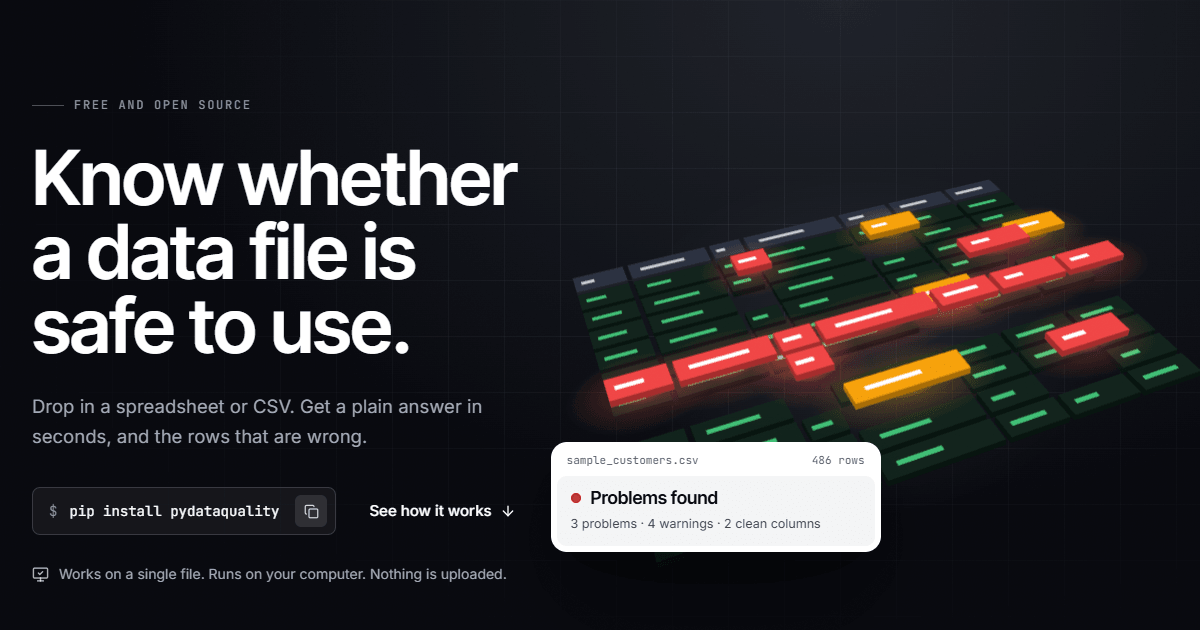
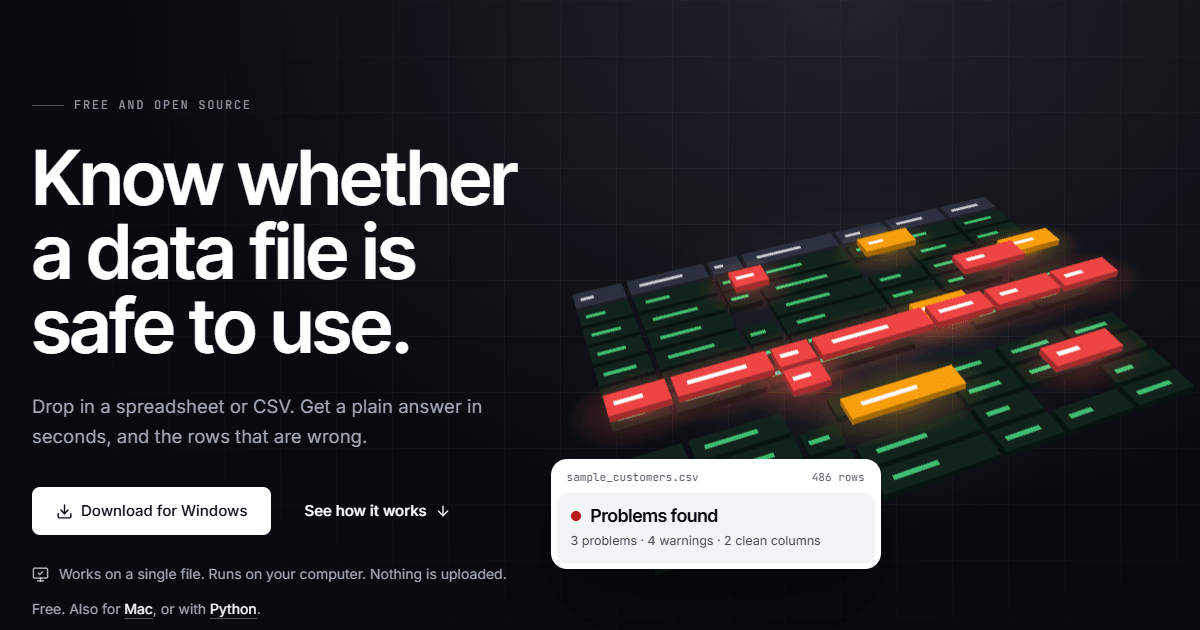
Website: add download buttons for the Windows and Mac apps
The 0.3.0 release carries a Windows setup program and a Mac app, so the site
no longer has to send people to a terminal.

- Hero, get-started section and closing panel lead with Download for Windows,
  with Mac beside it. The pip route stays for people who already use Python.
- Get started is now download, run it, drop a file in. It says plainly that
  Windows and macOS will ask for confirmation because the app is not signed.
- The links use releases/latest, so they follow future releases.
- Share image refreshed.

Changed region(s): [[0.4625, 0.2714, 0.9867, 0.9048], [0.0, 0.754, 0.4317, 0.8746], [0.0308, 0.9349, 0.2158, 0.9952]]

diff --git a/website/src/sections/Closing.tsx b/website/src/sections/Closing.tsx
@@ -1,6 +1,6 @@
-import { useRef, useState, type ReactNode } from "react";
+import { useRef, useState } from "react";
 import { AnimatePresence, motion, useInView } from "motion/react";
-import { ArrowRight, Check, Minus, Plus } from "lucide-react";
+import { Check, Download, Minus, Plus } from "lucide-react";
 import { BorderBeam } from "@/components/magicui/border-beam";
 import { CopyCommand, Heading, Reveal, TiltCard } from "@/components/ui";
 import { LINKS } from "@/lib/links";
@@ -119,7 +119,7 @@ export function Fit() {
 export const FAQ: [string, string][] = [
   ["I only have one file. Is that enough?", "Yes. It checks a single file on its own. Comparing with an earlier file is optional."],
   ["Does my file leave my computer?", "No. It makes no requests to the internet, has no account and collects nothing."],
-  ["Do I need to know Python?", "No. Python has to be installed, and you type two commands once. After that you use a page in your browser."],
+  ["Do I need to know Python?", "No. Download the app for Windows or Mac and double-click it. It needs no Python and no terminal."],
   ["How does it know what is wrong?", "It works out what each column holds, then checks it. After you save a file as normal, it also compares each new file with that one."],
   ["What if it flags something that is fine?", "Mark it as fine and it stops being reported for that kind of file."],
   ["What does it save?", "A small text file describing your columns, only when you save a file as normal. Not your rows."],
@@ -181,18 +181,29 @@ export function Questions() {
 }
 
 // ------------------------------------------------------------- get started
-const SETUP: { title: string; text: ReactNode; command?: string }[] = [
-  { title: "Install Python", text: <>Free, from <a className="link text-white" href="https://www.python.org/downloads/">python.org</a>. Version 3.8 or newer.</> },
-  { title: "Install PyDataQuality", text: "Open Terminal on a Mac, or Command Prompt on Windows, and type:", command: "pip install pydataquality" },
-  { title: "Open the app", text: "Type this. A page opens in your browser.", command: "pdq ui" },
+const SETUP: { title: string; text: string }[] = [
+  { title: "Download", text: "One file, about 26 MB. No Python, no terminal." },
+  { title: "Run it", text: "It installs for you only. No administrator password." },
+  { title: "Drop a file in", text: "PyDataQuality opens in your browser. Your file stays on your computer." },
 ];
 
 export function GetStarted() {
   return (
     <section className="later py-24 md:py-36" id="start">
       <div className="wrap">
-        <Heading eyebrow="Get started" title="Two commands, once." lede="There is no installer yet, so setup uses a terminal. After that it is a page in your browser." />
-        <ol className="mt-14 grid grid-cols-[minmax(0,1fr)] gap-4 lg:grid-cols-3">
+        <Heading eyebrow="Get started" title="Download it. Double-click. Done." lede="Free, for Windows and Mac." />
+        <Reveal delay={0.05}>
+          <div className="mt-10 flex flex-wrap items-center gap-3">
+            <a href={LINKS.windows} className="btn-white min-h-[52px] !px-6 text-[16px]">
+              <Download size={18} aria-hidden /> Download for Windows
+            </a>
+            <a href={LINKS.mac} className="btn-ghost min-h-[52px] !px-6 text-[16px]">
+              <Download size={18} aria-hidden /> Download for Mac
+            </a>
+          </div>
+          <p className="mt-4 text-[14px] text-fog">Windows 10 or 11. Mac with Apple Silicon (M1 or newer). <a className="link text-white" href={LINKS.releases}>All downloads</a>.</p>
+        </Reveal>
+        <ol className="mt-12 grid grid-cols-[minmax(0,1fr)] gap-4 lg:grid-cols-3">
           {SETUP.map((step, i) => (
             <li key={step.title}>
               <Reveal delay={0.08 * i} className="h-full">
@@ -200,12 +211,27 @@ export function GetStarted() {
                   <p className="font-mono text-[12px] text-haze" aria-hidden>{i + 1}</p>
                   <h3 className="mt-3 font-display text-[22px] font-semibold leading-tight tracking-[-0.01em]">{step.title}</h3>
                   <p className="mt-2 text-[15.5px] leading-relaxed text-fog">{step.text}</p>
-                  {step.command && <CopyCommand command={step.command} className="mt-5 w-full justify-between" />}
                 </div>
               </Reveal>
             </li>
           ))}
         </ol>
+        <Reveal delay={0.1}>
+          <div className="mt-4 grid grid-cols-[minmax(0,1fr)] gap-4 lg:grid-cols-2">
+            <div className="card p-6 md:p-7">
+              <h3 className="font-display text-[19px] font-semibold tracking-[-0.005em]">Your computer will ask if you are sure</h3>
+              <p className="mt-2 text-[15.5px] leading-relaxed text-fog">
+                The app is new and not yet signed. On Windows, choose <span className="text-white">More info</span>, then <span className="text-white">Run anyway</span>.
+                On a Mac, confirm it in <span className="text-white">System Settings, Privacy &amp; Security</span>.
+              </p>
+            </div>
+            <div className="card p-6 md:p-7">
+              <h3 className="font-display text-[19px] font-semibold tracking-[-0.005em]">Already use Python?</h3>
+              <p className="mt-2 text-[15.5px] leading-relaxed text-fog">Install it with pip, then run <span className="chip-dark">pdq ui</span>.</p>
+              <CopyCommand command="pip install pydataquality" className="mt-4" />
+            </div>
+          </div>
+        </Reveal>
       </div>
     </section>
   );
@@ -224,14 +250,16 @@ export function CallToAction() {
           {seen && <BorderBeam size={360} duration={12} colorFrom="#ffffff" colorTo="#64748b" borderWidth={1.5} />}
           <div className="relative mx-auto max-w-[680px]">
             <h2 className="font-display text-[40px] font-semibold leading-[1.0] tracking-[-0.015em] md:text-[68px]">Check the file you trust least.</h2>
-            <p className="mx-auto mt-6 max-w-[480px] text-[17.5px] text-fog">Install it, run <span className="chip-dark !text-[14px]">pdq ui</span> and drop the file in.</p>
+            <p className="mx-auto mt-6 max-w-[480px] text-[17.5px] text-fog">Download it, open it and drop the file in.</p>
             <div className="mt-10 flex flex-wrap items-center justify-center gap-3">
-              <CopyCommand command="pip install pydataquality" />
-              <a href="#start" className="btn-white min-h-[48px]">
-                How to install <ArrowRight size={16} aria-hidden />
+              <a href={LINKS.windows} className="btn-white min-h-[52px] !px-6 text-[16px]">
+                <Download size={18} aria-hidden /> Download for Windows
+              </a>
+              <a href={LINKS.mac} className="btn-ghost min-h-[52px] !px-6 text-[16px]">
+                <Download size={18} aria-hidden /> Download for Mac
               </a>
             </div>
-            <p className="mt-7 font-mono text-[12.5px] text-haze">Reads CSV, Excel, JSON and Parquet · MIT licence</p>
+            <p className="mt-7 font-mono text-[12.5px] text-haze">Free · Reads CSV, Excel and JSON · MIT licence</p>
           </div>
         </div>
       </Reveal>

diff --git a/website/src/sections/Hero.tsx b/website/src/sections/Hero.tsx
@@ -1,7 +1,7 @@
 import { Component, Suspense, lazy, useEffect, useRef, useState, type ReactNode } from "react";
 import { AnimatePresence, motion, useInView, useReducedMotion, type Variants } from "motion/react";
-import { ArrowDown, MonitorCheck } from "lucide-react";
-import { CopyCommand } from "@/components/ui";
+import { ArrowDown, Download, MonitorCheck } from "lucide-react";
+import { LINKS } from "@/lib/links";
 import { HeroPoster } from "@/components/HeroPoster";
 import { SAMPLE_VERDICT } from "@/lib/sheet";
 import type { ScenePhase } from "@/three/HeroScene";
@@ -160,7 +160,9 @@ export function Hero() {
             Drop in a spreadsheet or CSV. Get a plain answer in seconds, and the rows that are wrong.
           </motion.p>
           <motion.div variants={rise} className="mt-9 flex flex-wrap items-center gap-3">
-            <CopyCommand command="pip install pydataquality" />
+            <a href={LINKS.windows} className="btn-white min-h-[48px] !px-6">
+              <Download size={17} aria-hidden /> Download for Windows
+            </a>
             <a href="#how" className="btn-ghost min-h-[48px] border-transparent bg-transparent">
               See how it works <ArrowDown size={16} aria-hidden />
             </a>
@@ -168,6 +170,9 @@ export function Hero() {
           <motion.p variants={rise} className="mt-7 flex items-center gap-2.5 text-[14px] text-fog">
             <MonitorCheck size={17} className="shrink-0 text-white/70" aria-hidden />
             Works on a single file. Runs on your computer. Nothing is uploaded.
+          </motion.p>
+          <motion.p variants={rise} className="mt-3 text-[14px] text-fog">
+            Free. Also for <a className="link text-white" href={LINKS.mac}>Mac</a>, or with <a className="link text-white" href="#start">Python</a>.
           </motion.p>
         </motion.div>
 

diff --git a/website/src/App.tsx b/website/src/App.tsx
@@ -46,14 +46,14 @@ function Nav() {
           <a className="transition-colors hover:text-white" href="#answer">What you get</a>
           <a className="transition-colors hover:text-white" href="#tour">The app</a>
           <a className="transition-colors hover:text-white" href="#inside">How it works</a>
-          <a className="transition-colors hover:text-white" href="#start">Install</a>
+          <a className="transition-colors hover:text-white" href="#start">Download</a>
           <a className="transition-colors hover:text-white" href="#faq">Questions</a>
         </nav>
         <div className="flex items-center gap-2">
           <a href={LINKS.github} className="btn-ghost !min-h-[44px] !px-3.5 text-[14px]" aria-label="PyDataQuality on GitHub">
             <GithubMark /> <span className="hidden sm:inline">GitHub</span>
           </a>
-          <a href="#start" className="btn-white !min-h-[44px] !px-4 text-[14px]">Get started</a>
+          <a href="#start" className="btn-white !min-h-[44px] !px-4 text-[14px]">Download</a>
         </div>
       </div>
     </motion.header>

diff --git a/website/src/lib/links.ts b/website/src/lib/links.ts
@@ -6,4 +6,8 @@ export const LINKS = {
   guide: `${REPO}/blob/main/docs/user_guide.md`,
   security: `${REPO}/blob/main/SECURITY.md`,
   pypi: "https://pypi.org/project/pydataquality/",
+  // These always point at the newest release that carries the files.
+  windows: `${REPO}/releases/latest/download/PyDataQuality-Setup.exe`,
+  mac: `${REPO}/releases/latest/download/PyDataQuality-macOS.zip`,
+  releases: `${REPO}/releases/latest`,
 };
